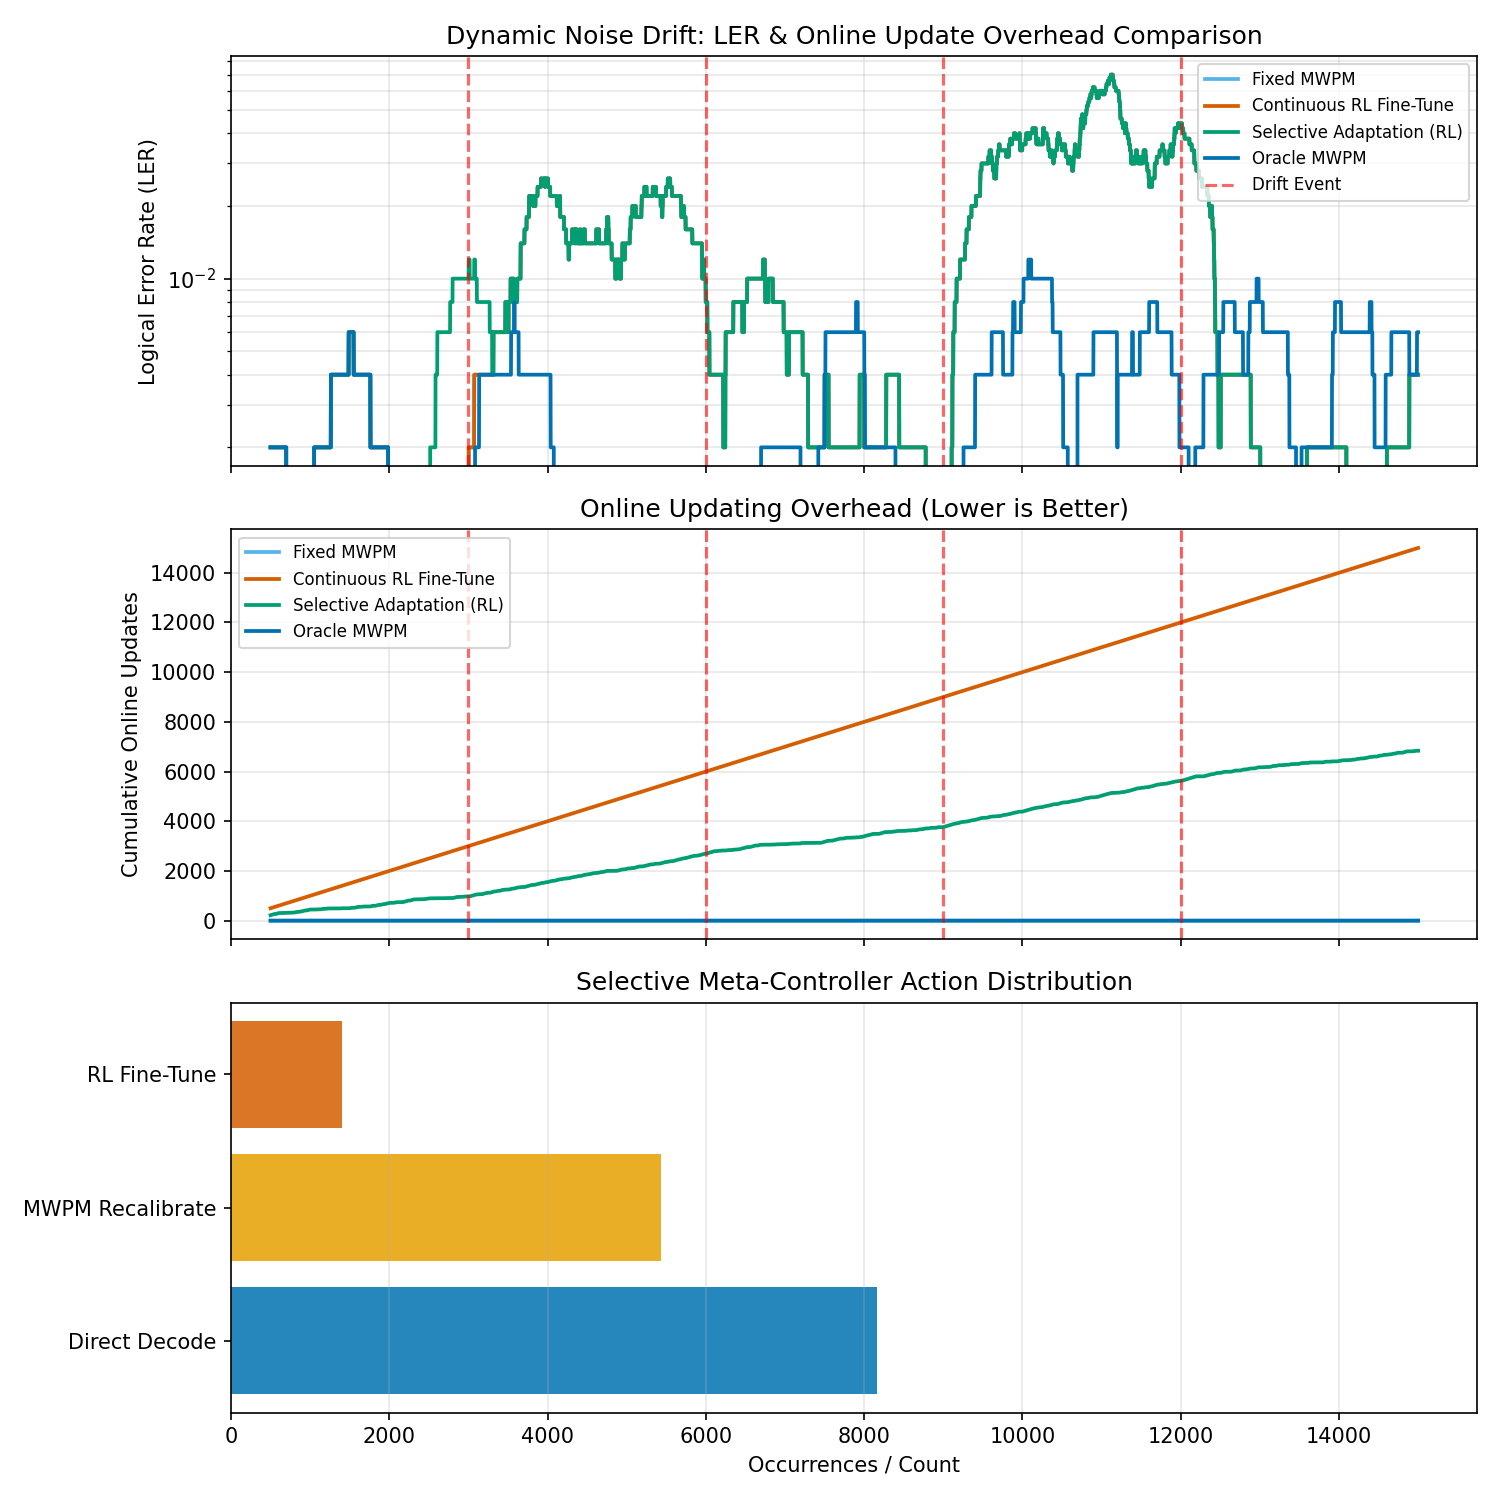
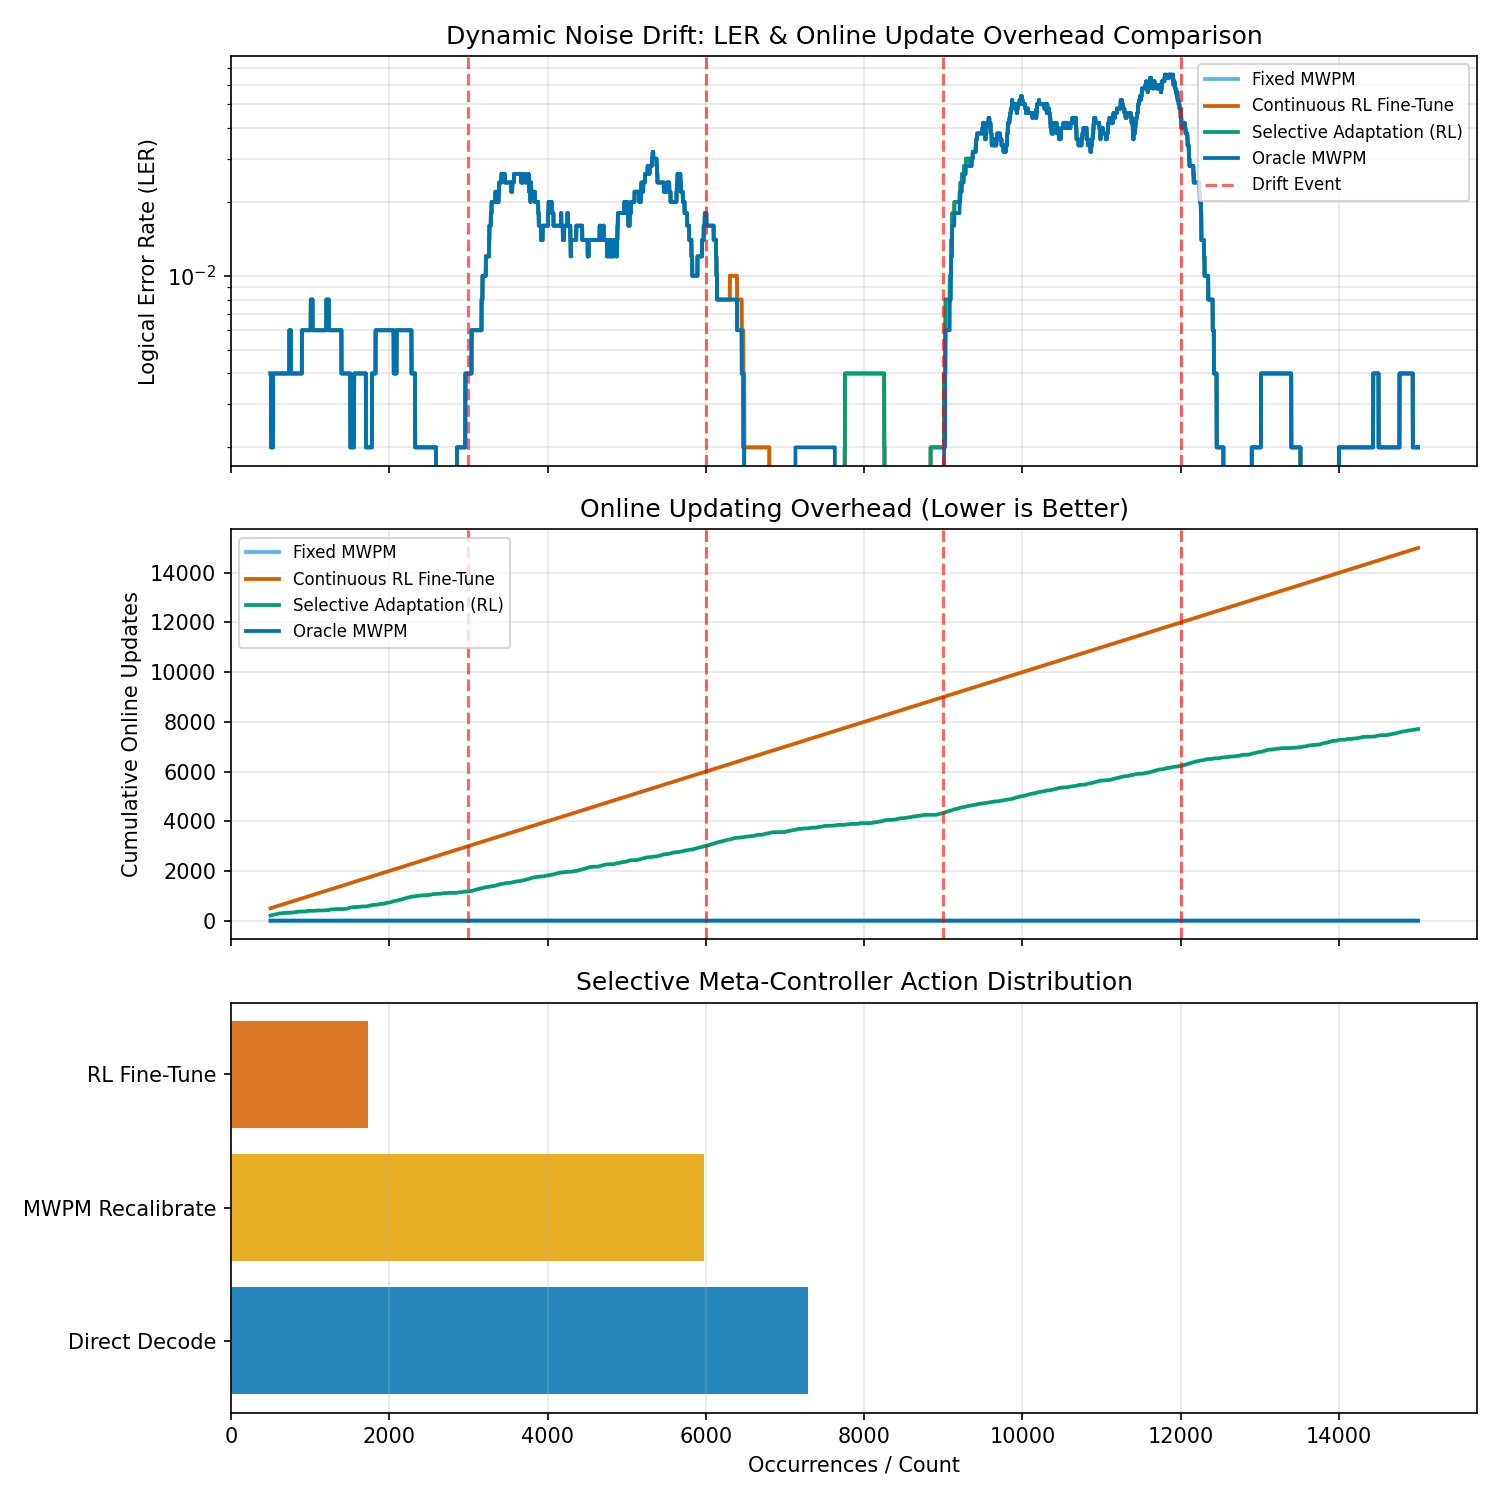
Updated Project

diff --git a/README.md b/README.md
@@ -25,6 +25,7 @@ python main.py --experiment baseline   # just the MWPM sweep
 python main.py --experiment rl         # just the RL training run
 python main.py --experiment drift      # just the drift comparison
 python main.py --experiment bias       # just the bonus noise-shape study
+python main.py --experiment adaptive   # dynamic drift & selective adaptation
 python main.py --quick                 # tiny run, checks the pipeline works
 ```
 
@@ -41,16 +42,16 @@ You have zero quantum background, so here is the whole thing.
 * A **decoder** maps syndrome → correction. It fails when the encoded bit ends up wrong anyway; the frequency of that is the **logical error rate (LER)**, the metric of this project.
 * The syndrome cannot distinguish `000` from `111` — both give `[0,0]`. That ambiguity is the irreducible reason decoding is a guessing game, and it is why the agent gets a reward signal rather than a label.
 
-The whole decision problem is 4 syndromes × 4 corrections. The known-optimal (minimum-weight) rule is:
+The decision space consists of 4 syndrome states × 8 physical correction actions ($2^3 = 8$ possible bit-flip patterns: `000` to `111`). Under standard uniform noise, the textbook minimum-weight rule chooses the single-qubit corrections:
 
-| syndrome | most likely cause | optimal action |
-|---|---|---|
-| `[0,0]` | nothing happened | no correction |
-| `[1,0]` | q0 flipped | flip q0 |
-| `[1,1]` | q1 flipped (it is in both checks) | flip q1 |
-| `[0,1]` | q2 flipped | flip q2 |
+| syndrome | most likely cause (uniform noise) | optimal action | correction applied |
+|---|---|---|---|
+| `[0,0]` | nothing happened | action 0 (`no-op`) | `000` |
+| `[1,0]` | q0 flipped | action 1 (`flip q0`) | `100` |
+| `[1,1]` | q1 flipped (in both checks) | action 2 (`flip q1`) | `010` |
+| `[0,1]` | q2 flipped | action 3 (`flip q2`) | `001` |
 
-The agent is never told this table. The point of Experiment 2 is that it finds it anyway.
+Under asymmetric/biased noise, higher-weight patterns (like action 6 = `011`, flipping `q1` and `q2`) can become more probable than single-qubit flips. Providing all 8 actions allows the RL agent to discover both standard minimum-weight and non-standard biased-noise corrections. The agent is never told this table — it discovers the optimal policy purely from syndrome and reward feedback.
 
 ---
 
@@ -59,9 +60,9 @@ The agent is never told this table. The point of Experiment 2 is that it finds i
 | | |
 |---|---|
 | **State** | The syndrome, encoded as `2*s0 + s1` → `Discrete(4)`. Nothing else. The agent never sees the error pattern or the qubit state. |
-| **Action** | `Discrete(4)`: no correction, flip q0, flip q1, flip q2. |
+| **Action** | `Discrete(8)`: all $2^3 = 8$ correction patterns (`000` no-op, `100` q0, `010` q1, `001` q2, `110` q0+q1, `101` q0+q2, `011` q1+q2, `111` q0+q1+q2). |
 | **Reward** | `+1` if the logical bit survived the round, `-1` if it was lost. No fidelity, no shaping, no partial credit. |
-| **Episode** | Exactly one step. This is a contextual bandit, which is why a 4×4 table is sufficient and no neural network is needed. |
+| **Episode** | Exactly one step. This is a contextual bandit; the entire value function is a 4×8 table (32 numbers) where tabular Q-learning is exact, fully inspectable, and immune to neural-network approximation error. |
 
 **How survival is decided.** With hidden error `e` and correction `c`, the residual is `r = e XOR c`. `r = 000` means the state was restored (+1). `r = 111` is a **logical X** — undetectable, the encoded bit is lost (−1). Anything else means the correction pushed the state out of the code space, also a failed round (−1). So in practice: reward is +1 exactly when the correction matched the error.
 
@@ -99,12 +100,17 @@ Three decoders on identical shots:
 → `results/drift_results.csv`, `results/drift_comparison.png`, `results/drift_bias_results.csv`, `results/drift_bias_comparison.png`
 
 ### Experiment 4 — Adaptive RL & Selective Adaptation (`experiments/exp_adaptive.py`)
-Evaluates continuous dynamic noise drift across 15,000 timesteps spanning 5 operational drift regimes (baseline, abrupt magnitude jump, biased shape drift, severe drift, baseline recovery):
+Evaluates continuous dynamic noise drift across 15,000 timesteps spanning 5 operational drift regimes (baseline uniform $p = 0.03$, abrupt magnitude jump $p = 0.08$, biased shape drift, severe drift $p = 0.12$, baseline recovery):
 
 * **Fixed MWPM** — frozen matching graph (zero online updates; suffers high LER under bias).
-* **Continuous RL Fine-Tune** — updates Q-table on every step (100% online updates).
-* **Selective Adaptation (RL)** — syndrome-statistics-based adaptive controller tracks short vs. long sliding window features and selectively triggers PyMatching recalibration or RL fine-tuning.
+* **Continuous RL Fine-Tune** — updates Q-table on every step (100% online update overhead).
+* **Selective Adaptation (RL)** — syndrome-statistics-based adaptive controller that tracks short vs. long sliding window features and selectively triggers:
+  * *Meta-Action 0 (Direct Decode)*: Zero-cost inference when noise is stationary.
+  * *Meta-Action 1 (MWPM Recalibrate)*: Estimates per-qubit noise rates $\hat{p}_0, \hat{p}_1, \hat{p}_2$, rebuilds a PyMatching matching graph, and updates the active policy.
+  * *Meta-Action 2 (RL Fine-Tune)*: Performs targeted online Q-learning updates.
 * **Oracle MWPM** — dynamic upper-bound baseline rebuilt at each timestep.
+
+**Unified Evaluation Methodology:** All four strategies — including Oracle MWPM — are scored via the identical `env.step` → `info["logical_survived"]` interface. This eliminates measurement discrepancies and guarantees that all reported LER values are strictly apples-to-apples.
 
 → `results/adaptive_drift_results.csv`, `results/adaptive_drift_comparison.png`, `results/adaptive_metadata.json`, `results/adaptive_drift_multiseed.csv`
 
@@ -112,19 +118,19 @@ Evaluates continuous dynamic noise drift across 15,000 timesteps spanning 5 oper
 
 ## What you should see (actual results from `python main.py`)
 
-**The agent learns the optimal decoder, on every seed.**
+**The agent learns the optimal decoder across all 8 actions, on every seed.**
 
 ```
-  state (syndrome) |        no-op      flip q0      flip q1      flip q2
-          0  [0,0] |      1.0000*     -1.0000      -1.0000      -1.0000
-          1  [0,1] |     -0.9985      -0.9996      -0.9999       0.9938*
-          2  [1,0] |     -0.9997       0.9969*     -0.9997      -0.9978
-          3  [1,1] |     -0.9998      -0.9985       0.8975*     -0.9999
+  state (syndrome) |        no-op      flip q0      flip q1      flip q2  flip q0,q1  flip q0,q2  flip q1,q2 flip q0,q1,q2
+          0  [0,0] |      1.0000*     -1.0000      -1.0000      -1.0000     -1.0000     -1.0000     -1.0000      -1.0000
+          1  [0,1] |     -0.9985      -0.9996      -0.9999       0.9938*    -0.9998     -0.9999     -0.9997      -1.0000
+          2  [1,0] |     -0.9997       0.9969*     -0.9997      -0.9978     -0.9998     -0.9999     -0.9999      -1.0000
+          3  [1,1] |     -0.9998      -0.9985       0.8975*     -0.9999     -0.9998     -0.9997     -0.9998      -1.0000
 
   policies identical: YES        5/5 seeds recovered the exact minimum-weight policy
 ```
 
-Those numbers are not arbitrary: the fixed point of the update is `Q*(s,a) = 2·P(success | s,a) − 1`, so the winning entries should sit near `2(1−p) − 1 = 0.94` and the losers at `−1`. `convergence_report()` checks exactly that, and `print_q_table()` prints the deviation.
+Those numbers are not arbitrary: the fixed point of the update is `Q*(s,a) = 2·P(success | s,a) − 1`, so the winning entries sit near `2(1−p) − 1 = 0.94` and non-optimal entries sit near `−1`. `convergence_report()` checks exactly that, and `print_q_table()` prints the deviation.
 
 **RL and MWPM produce identical LER at every noise rate** — a difference of exactly `0.000000` across the sweep. The agent, given no physics whatsoever, reconstructed the same lookup table that matching derives from the error model. On a code this small, matching a near-optimal baseline *is* the ceiling.
 
